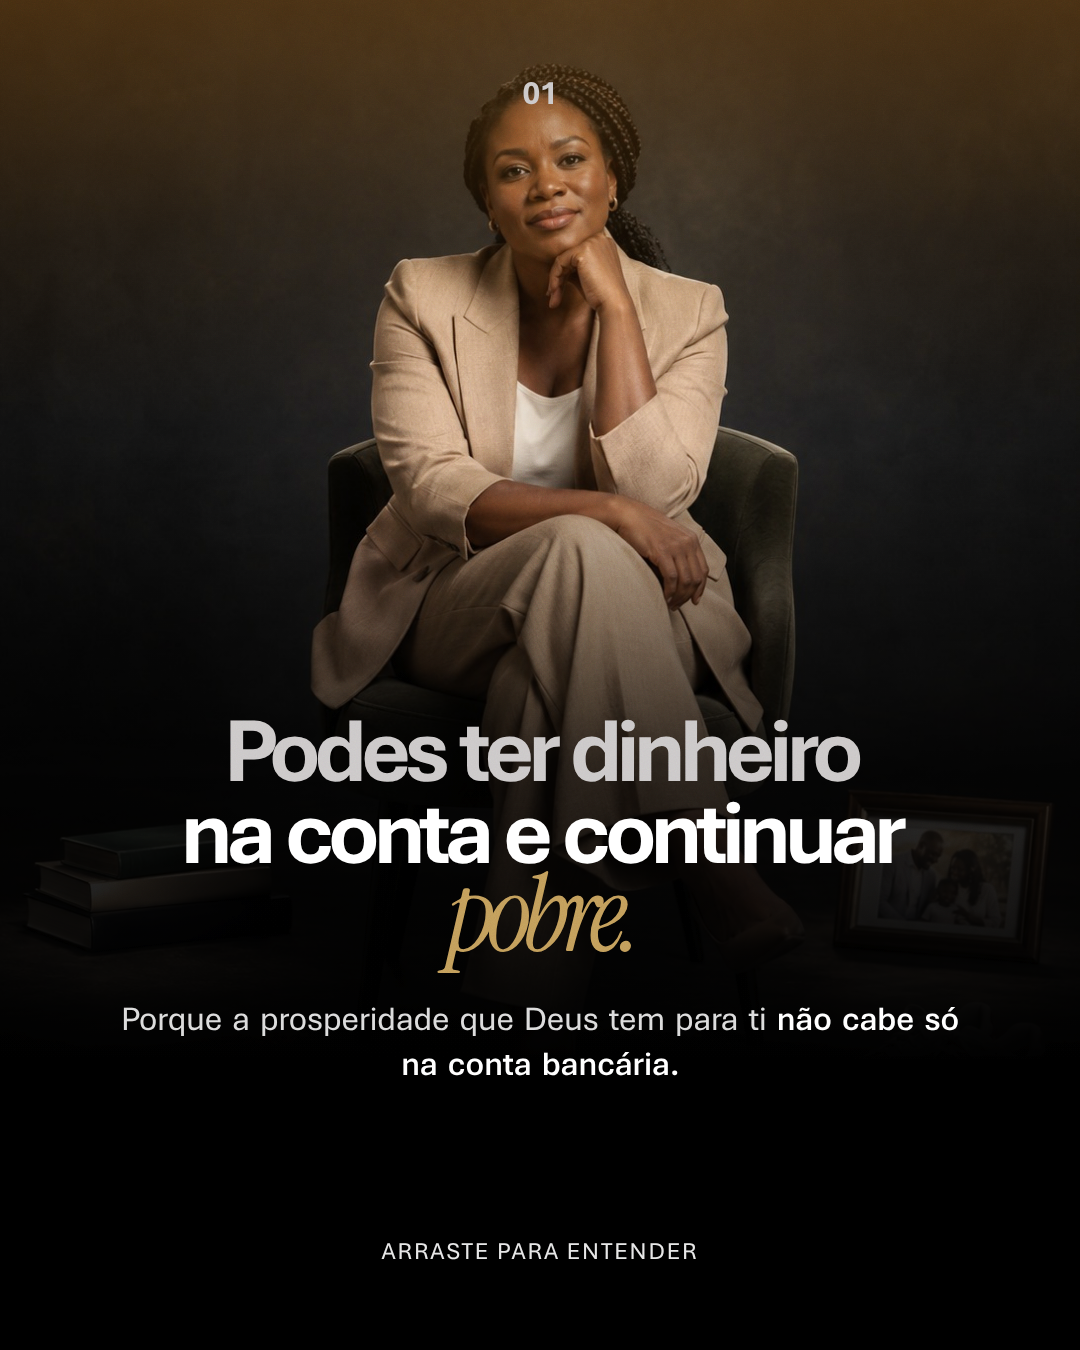
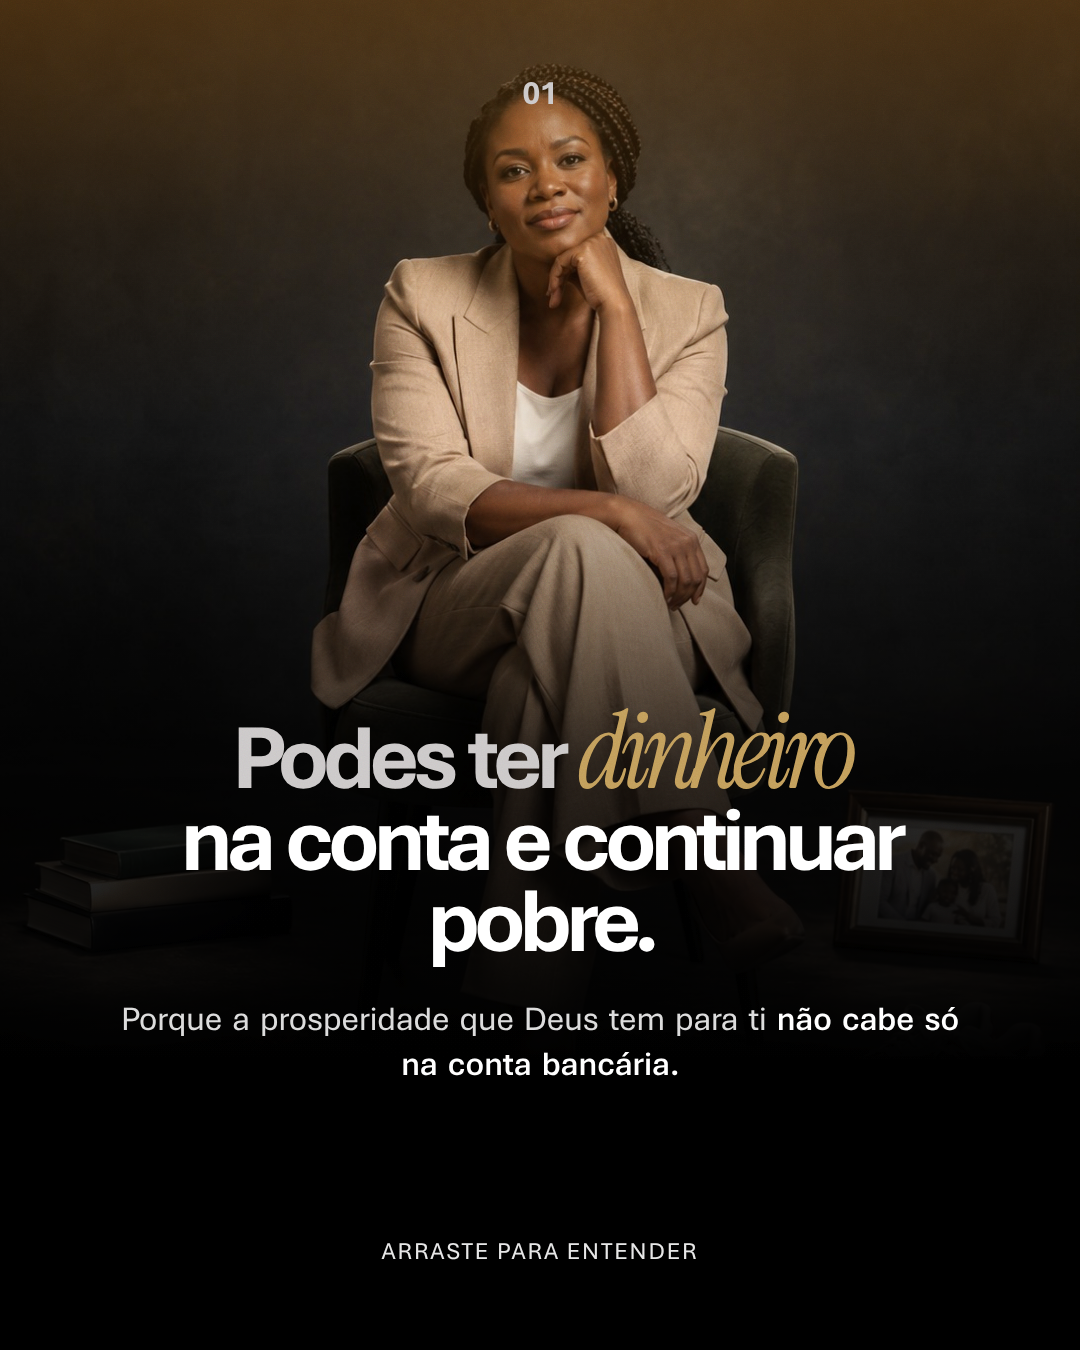
28/10: Instrument Serif na palavra "dinheiro" da capa
Claude-Session: https://claude.ai/code/session_01RgmbLLVHoJT5B4GNygU6zs

Changed region(s): [[0.1833, 0.5289, 0.8556, 0.7156]]

diff --git a/content/founders/semana-02/index.html b/content/founders/semana-02/index.html
@@ -160,9 +160,9 @@ body{ background:#2a2a2a; display:flex; flex-wrap:wrap; gap:40px; padding:40px; 
   <div class="photo"><img src="img/2026-10-28-capa.jpg" alt="" style="object-position:50% 0%"></div>
   <div class="num">01</div>
   <div class="cover-a ttl" style="--ts:92px;font-weight:700;bottom:262px">
-    <div class="t1">Podes ter dinheiro</div>
+    <div class="t1">Podes ter <span class="it">dinheiro</span></div>
     <div>na conta e continuar</div>
-    <div><span class="it">pobre.</span></div>
+    <div>pobre.</div>
     <p class="sub" style="font-weight:400">Porque a prosperidade que Deus tem para ti <b>não cabe só na conta bancária.</b></p>
   </div>
   <div class="cta-foot">Arraste para entender</div>
